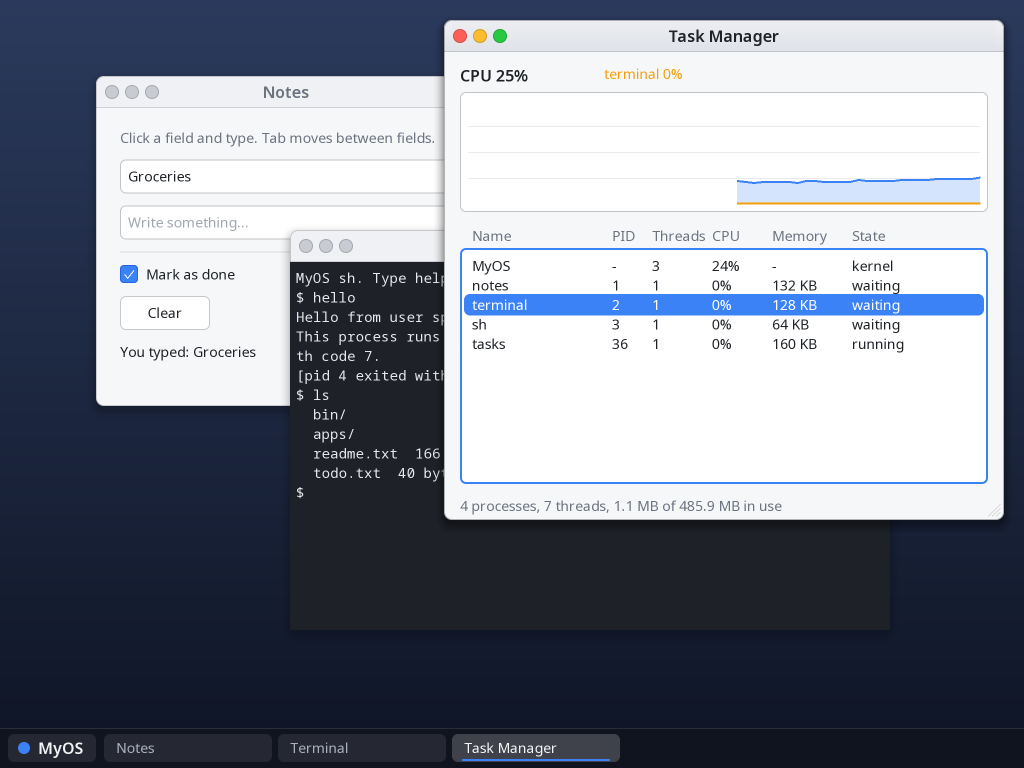
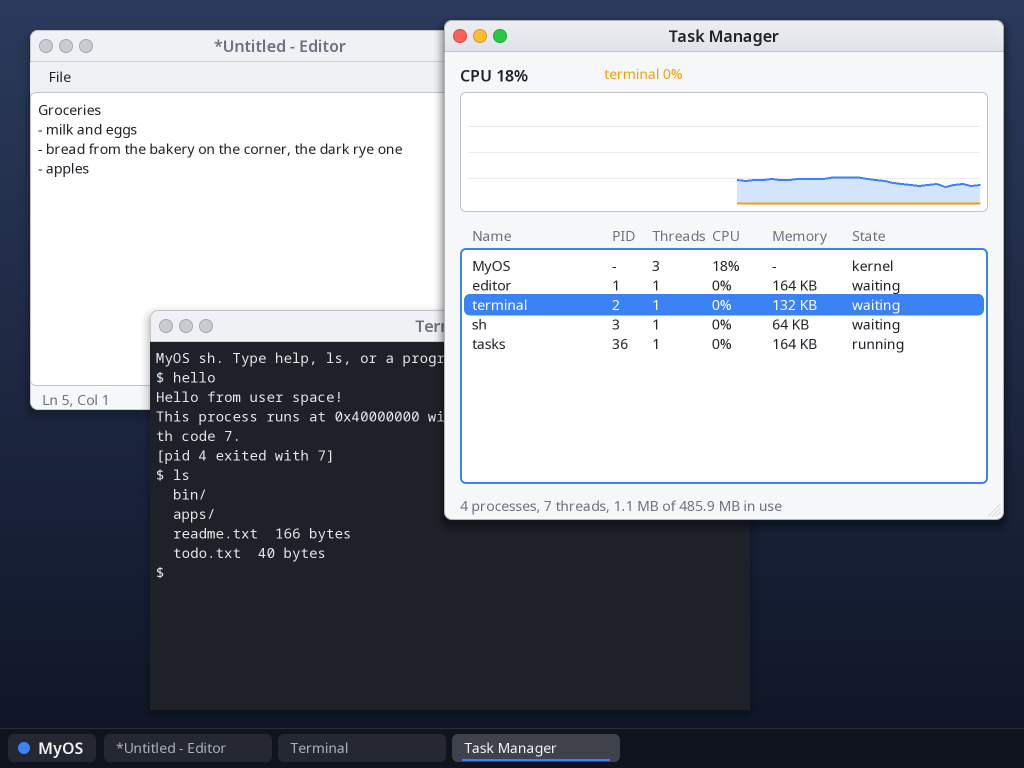
Make the Editor a Notepad, and drop the Notes demo
MyOS's Editor has a File menu, wrapped text that follows its window, a
line and column status, a title marking unsaved changes, and asks about
them before they are lost; Notes is gone. MyAppFramework adds <Menu>,
anchor=, TextArea wrap/onEdit/onCaret, dialogs with a third answer and
contents, a bound window title and App.can_close.

The UI protocol gains CREATE_MENU_BUTTON and ADD_STYLE, and EventKind
CARET; the design docs say what they do and how a dialog takes and gives
back the keyboard. The dom-text-rows suite tests wrapping. The readme's
code is the Terminal app now, and its screenshot shows the Editor;
tools/readme_media.py sizes the Editor with its resize grip.

diff --git a/tools/readme_media.py b/tools/readme_media.py
@@ -150,6 +150,13 @@ def move_window(os: MyOS, name: str, x: int, y: int) -> None:
     drag(os, grab_x, grab_y, grab_x + x - box.x, grab_y + y - box.y)
 
 
+def resize_window(os: MyOS, name: str, width: int, height: int) -> None:
+    """Drag a window's resize grip, at its bottom right, to make it width x height."""
+    box = os.get_by_role("window", name=name).snapshot().bounds
+    grab_x, grab_y = box.x + box.width - 6, box.y + box.height - 6
+    drag(os, grab_x, grab_y, grab_x + width - box.width, grab_y + height - box.height)
+
+
 def drag(os: MyOS, x0: int, y0: int, x1: int, y1: int) -> None:
     """Press at (x0, y0), move to (x1, y1) and release; wait for the redraw.
 
@@ -194,13 +201,17 @@ def take_screenshots() -> None:
         term = os.get_by_test_id("terminal")
         expect(term).to_be_visible()
         wait_text_contains(term, "$ ")
-        # Notes at the top left and the terminal below and right of it, so
-        # both show; coordinates are framebuffer pixels (the UI renders at 2x).
-        # Boot's windows arrive in any order, each on top.
-        move_window(os, "Notes", 192, 152)
-        move_window(os, "Terminal", 580, 460)
-        os.raise_window("Notes")
-        os.get_by_role("textbox", name="Title").fill("Groceries")
+        # The editor at the top left, made smaller, and the terminal below and
+        # right of it, so both show; coordinates are framebuffer pixels (the
+        # UI renders at 2x). Boot's windows arrive in any order, each on top.
+        move_window(os, "Editor", 60, 60)
+        resize_window(os, "Editor", 1000, 760)
+        move_window(os, "Terminal", 300, 620)
+        os.raise_window("Editor")
+        os.get_by_test_id("editor-text").click()
+        for line in ("Groceries", "- milk and eggs", "- bread from the bakery on the corner, the dark rye one", "- apples"):
+            os._type(line)
+            os._press("enter")
         os.raise_window("Terminal")
         term.click()
         for command, needle in (("hello", "exited with 7"), ("ls", "readme.txt")):
@@ -208,7 +219,7 @@ def take_screenshots() -> None:
             os._press("enter")
             wait_text_contains(term, needle)
 
-        # Task Manager at the right, with Notes in view. The terminal's row is
+        # Task Manager at the right, with the editor in view. The terminal's row is
         # selected, so its share is drawn over the graph.
         launch_app(os, "Task Manager")
         tasks = os.get_by_role("window", name="Task Manager").snapshot().bounds

diff --git a/qa/tests/test-all.py b/qa/tests/test-all.py
@@ -177,6 +177,7 @@ SUITES = {
     "dom": mytest_suite(MYKERNEL_DIR / "tests" / "dom" / "dom_lowering.dom.unsafe.test.mln"),
     "dom-hit": mytest_suite(MYOS_DIR / "tests" / "dom" / "dom_hit_dispatch.unsafe.test.mln"),
     "dom-terminal": mytest_suite(MYOS_DIR / "tests" / "dom" / "dom_terminal.unsafe.test.mln"),
+    "dom-text-rows": mytest_suite(MYOS_DIR / "tests" / "dom" / "dom_text_rows.unsafe.test.mln"),
     "input-queues": mytest_suite(MYKERNEL_DIR / "tests" / "io" / "input_queues.unsafe.test.mln"),
     "graphics": mytest_suite(MYOS_DIR / "tests" / "ui" / "graphics.unsafe.test.mln"),
     "readme": (

diff --git a/readme.md b/readme.md
@@ -4,47 +4,49 @@ A computer built from scratch: an instruction set and its emulator, a kernel
 with isolated user processes, a windowed desktop OS, and MyLang with its own
 compiler, assembler, linker, standard library and language server.
 
-![The MyOS desktop: Task Manager graphing CPU use and listing each process's
-threads, CPU and memory, beside Notes and a terminal that has just run a
-user-space program](docs/images/desktop.png)
+![The MyOS desktop: the Editor with a shopping list, a terminal that has just
+run a user-space program, and Task Manager graphing CPU use and listing each
+process's threads, CPU and memory](docs/images/desktop.png)
 
-Desktop apps are MyLang code. The Notes window above is this `@app`: the
-fields hold its state, and `view` says what the state looks like. The framework
-keeps the window in step with it.
+Desktop apps are MyLang code. The Terminal window above is this `@app`: its
+fields hold its state, `view` says what the state looks like, and `open` starts
+the shell on the screen once the window is up. The framework keeps the window
+in step with the state.
 
-<!-- snippet: system/MyOS/src/apps/notes.dom.mln start="/**" end="}" -->
+<!-- snippet: system/MyOS/src/apps/terminal.dom.mln start="/**" end="}" -->
 ```rust
-// system/MyOS/src/apps/notes.dom.mln
+// system/MyOS/src/apps/terminal.dom.mln
 /**
- * The Notes form's state.
- * @property title The title field.
- * @property body The body field.
- * @property typed Text of the field that last changed.
+ * The state of a terminal.
+ * @property screen What the shell runs on.
+ * @property shell The shell, while it runs.
  */
 @app
-struct Notes {
-    TextField title;
-    TextField body;
-    Text<128> typed;
+struct Terminal {
+    Screen screen;
+    Option<Pid> shell;
 };
 
-impl App for Notes {
-    Self start() { return Notes { title: ui.field(), body: ui.field() }; }
+impl App for Terminal {
+    Self start() { return Terminal { screen: ui.screen() }; }
 
-    View (Self n) view() {
-        return <Window title="Notes" w={380} h={330}>
-            <Column x={24} y={20} w={332} h={270} gap={12}>
-                <Label text="Click a field and type. Tab moves between fields." color={ui.TEXT_SECONDARY} />
-                <TextInput field={n.title} placeholder="Title" w={332} h={34} capacity={64} onChange={n.changed} />
-                <TextInput field={n.body} placeholder="Write something..." w={332} h={34} capacity={64} onChange={n.changed} />
-                <Separator w={332} />
-                <Checkbox text="Mark as done" checked={true} />
-                <Row w={332} h={34} gap={10}>
-                    <Button text="Clear" w={90} h={34} onClick={n.clear} />
-                </Row>
-                <Label text={"You typed: %s", n.typed} />
-            </Column>
+    View (Self t) view() {
+        return <Window title="Terminal" w={600} h={400}>
+            <Terminal screen={t.screen} w={600} h={368} focus={true} anchor={ui.GROW_W | ui.GROW_H} testId="terminal" />
         </Window>;
+    }
+
+    /** The shell starts on the launch, the first open. */
+    void (borrow Self t) open(str path) {
+        if (t.shell.is_some()) { return; }
+        case terminal.spawn_bound("sh", t.screen) of {
+            Ok(pid) -> ({ t.shell = Some(pid); });
+            Err(e) -> ({
+                t.screen.write("sh: ");
+                t.screen.write(e.describe());
+                t.screen.write("\n");
+            });
+        };
     }
 }
 ```

diff --git a/docs/design/app-model.md b/docs/design/app-model.md
@@ -31,6 +31,7 @@ export trait App {
     Self start();
     View (Self self) view();
     void (borrow Self self) open(str path) { }
+    bool (borrow Self self) can_close() { return true; }
     void (borrow Self self) close() { }
 }
 ```
@@ -42,7 +43,9 @@ i32 main() { return app.run<Counter>(); }
 ```
 
 `@key` と `@timer` は、キーや周期というデータなので注釈でメソッドに付ける。他アプリからのパスと
-閉じる時の後始末は `App` の `open` と `close` で受ける。
+閉じる時の後始末は `App` の `open` と `close` で受ける。ユーザーがウィンドウを閉じようとすると
+`can_close` が呼ばれ、false を返せばウィンドウは残る（保存していない変更を先に尋ねる、など）。
+その後でアプリが終わるときは `app.quit()` を呼ぶ。
 
 ```c
 @app(name = "Editor", single, opens)
@@ -80,10 +83,10 @@ void (borrow Editor e) save() { ... }
 | `Screen` | プロセスを載せる、書く | Terminal の画面 |
 
 ```c
-Self start() { return Notes { title: ui.field() }; }
+Self start() { return Editor { body: ui.field(), name: ui.field() }; }
 
-<TextInput field={n.title} placeholder="Title" onChange={n.changed} />
-<TextArea field={e.body} name="Type here..." />
+<TextInput field={e.name} placeholder="file name" />
+<TextArea field={e.body} name="" wrap={true} onEdit={e.edited} onCaret={e.moved} />
 <Terminal screen={t.screen} focus={true} />
 ```
 
@@ -107,14 +110,19 @@ Self start() { return Notes { title: ui.field() }; }
 
 `when=` は出し入れだけをする。ノードは `view` で一度作るだけで、隠している間も残る。だから再び出た時、
 中の部品は値を持ったままで、ノード数も増えない。`Dialog` は `<Window>` の子に書くが別のウィンドウになり、
-シェルがアプリのウィンドウの上に置く。`Dialog` のウィンドウを閉じるのは `onCancel` と同じで、消えるのは
-`when` の値が変わった時である。
+シェルがアプリのウィンドウの上に置く。`Dialog` のウィンドウを閉じる（× か Esc）のは `onCancel` と
+同じで、消えるのは `when` の値が変わった時である。`Dialog` の中に書いた要素はそのウィンドウに入り、
+出た時に最初の入力欄かリストがキーボードを受ける。閉じると、キーボードはアプリのウィンドウで
+持っていた部品へ戻る。
+
+ウィンドウの大きさが変わった時に部品がどう付いていくかは `anchor=` で決める（`ui.GROW_W`、
+`ui.GROW_H`、`ui.PIN_BOTTOM`）。決めない部品は置いた位置と大きさのまま。
 
 **規則 A8（イベントは値を運ぶ）** ハンドラは必要な値だけを受け取る。ノードの ID は渡らない。
 
 ```c
 void (borrow Counter c) click() { ... }
-void (borrow Notes n) changed(str text) { ... }
+void (borrow Editor e) moved(i32 line, i32 column) { ... }
 void (borrow Counter c) set_double(bool on) { ... }
 void (borrow Files f) select(i32 row) { ... }
 ```
